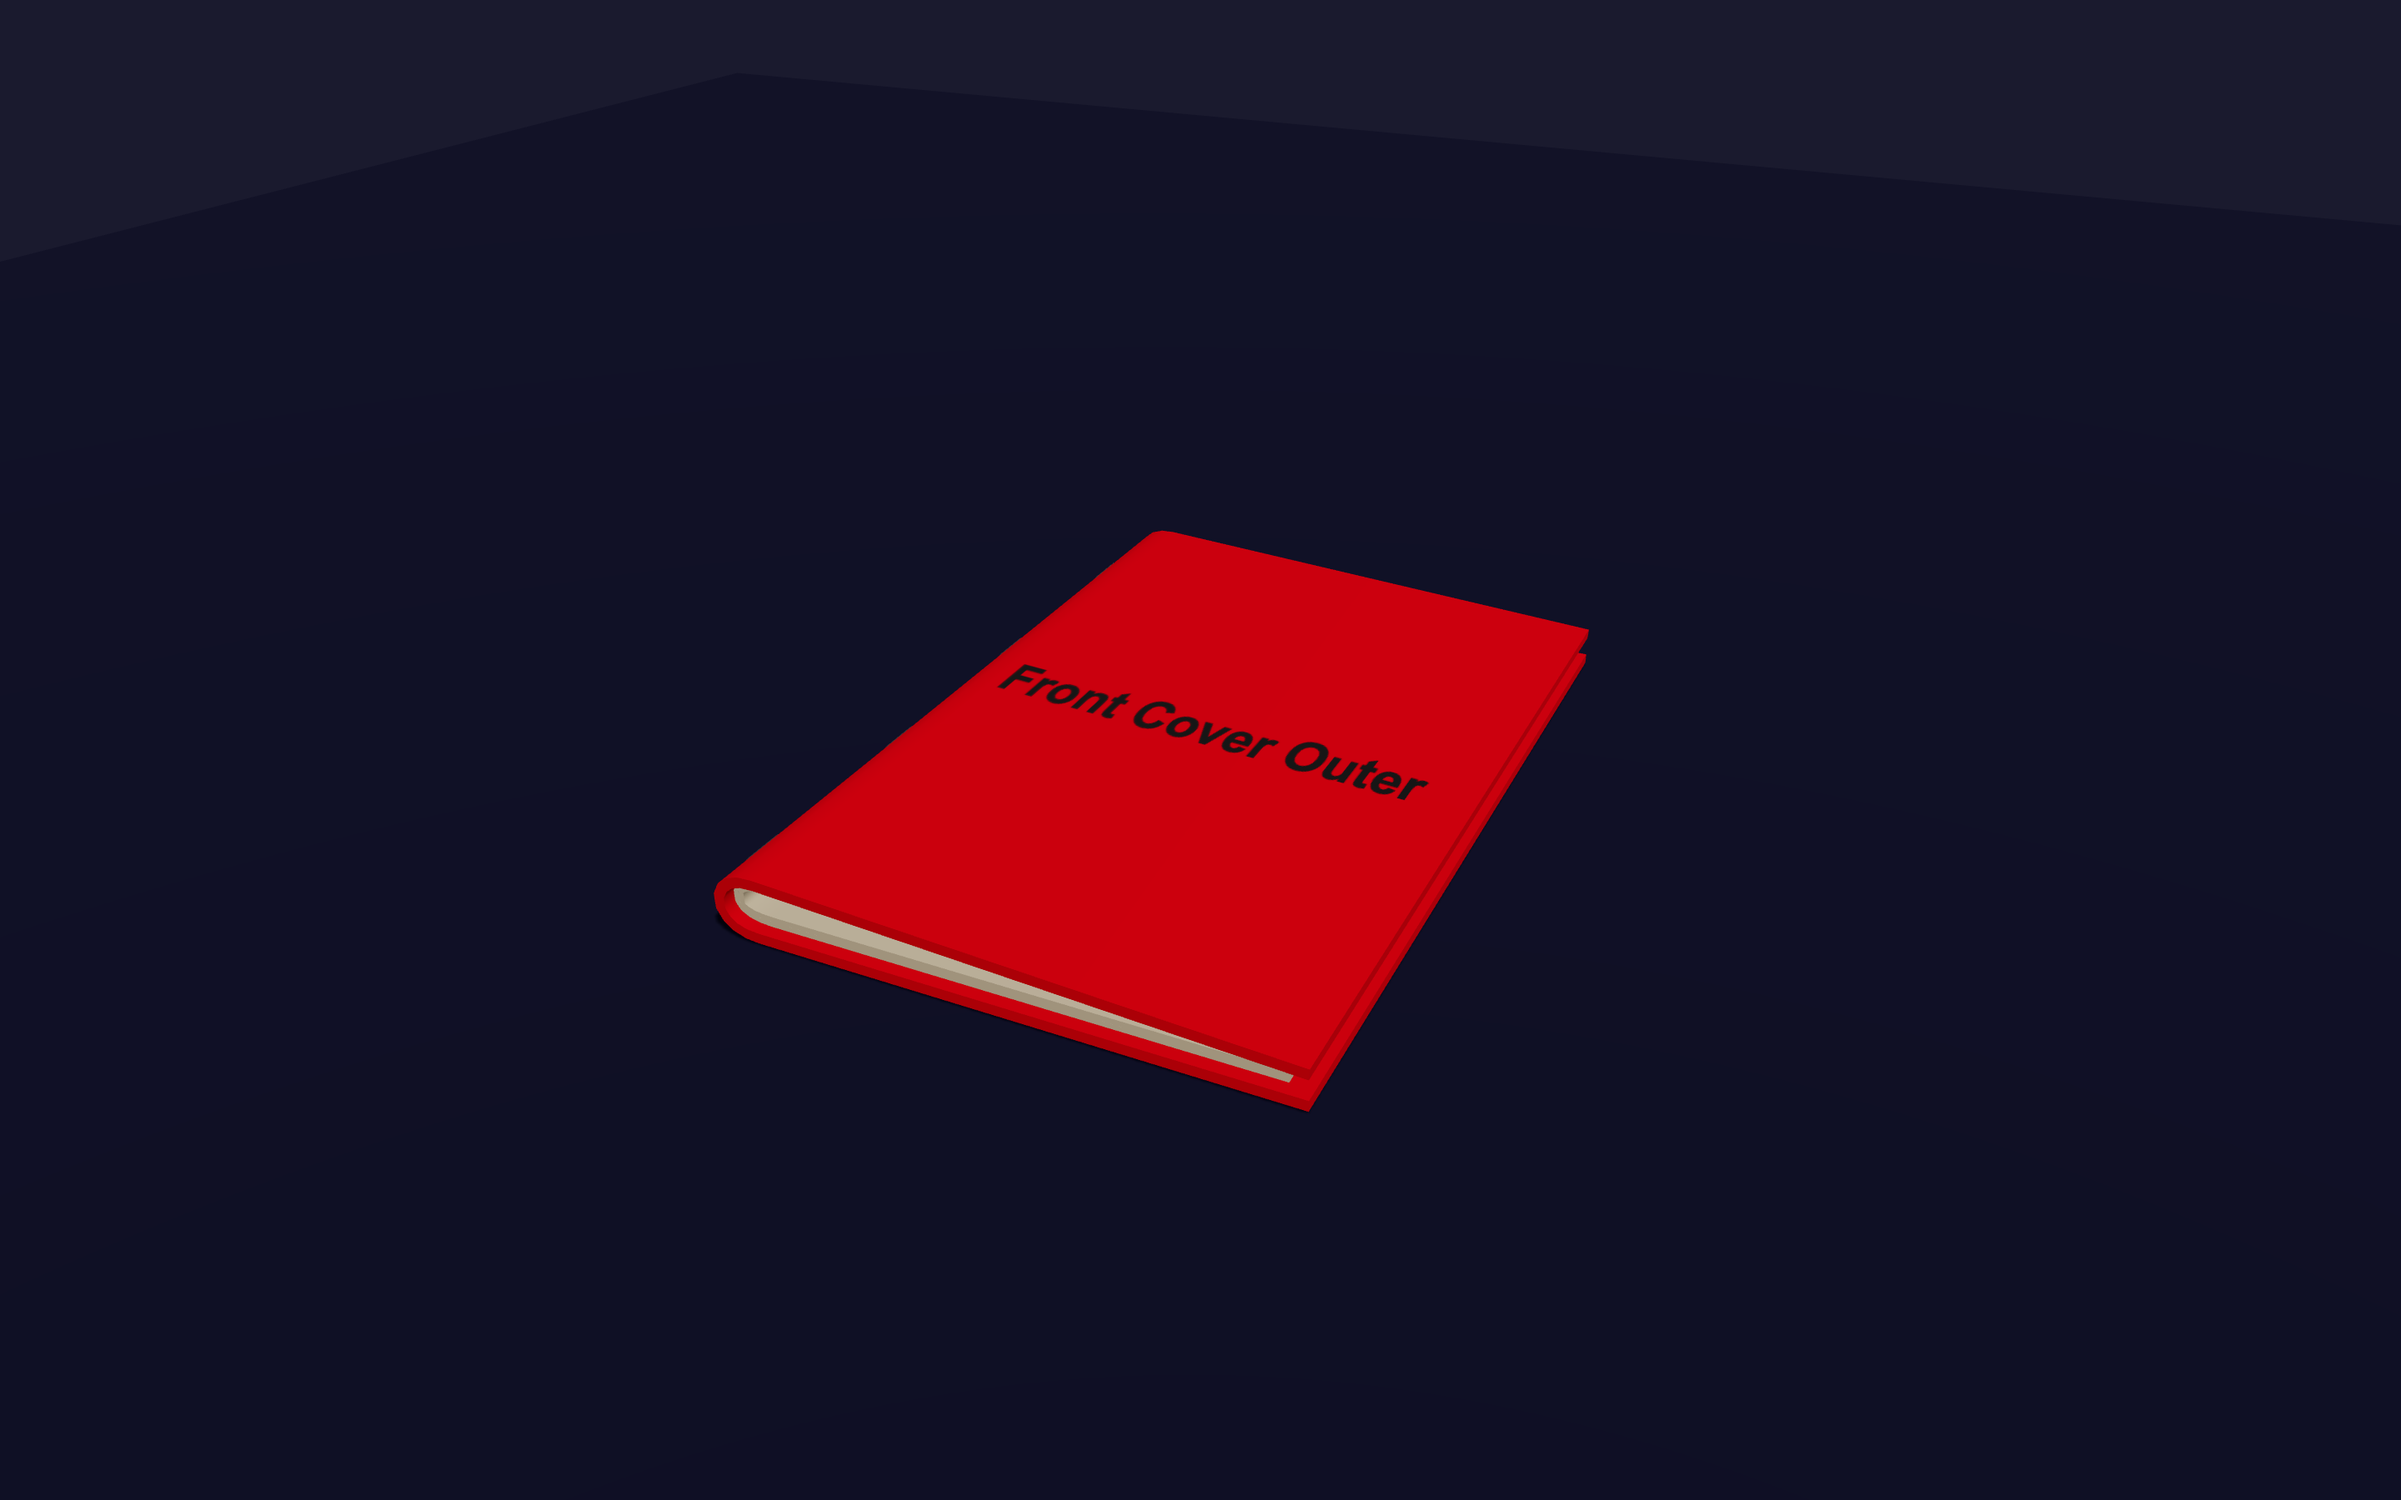
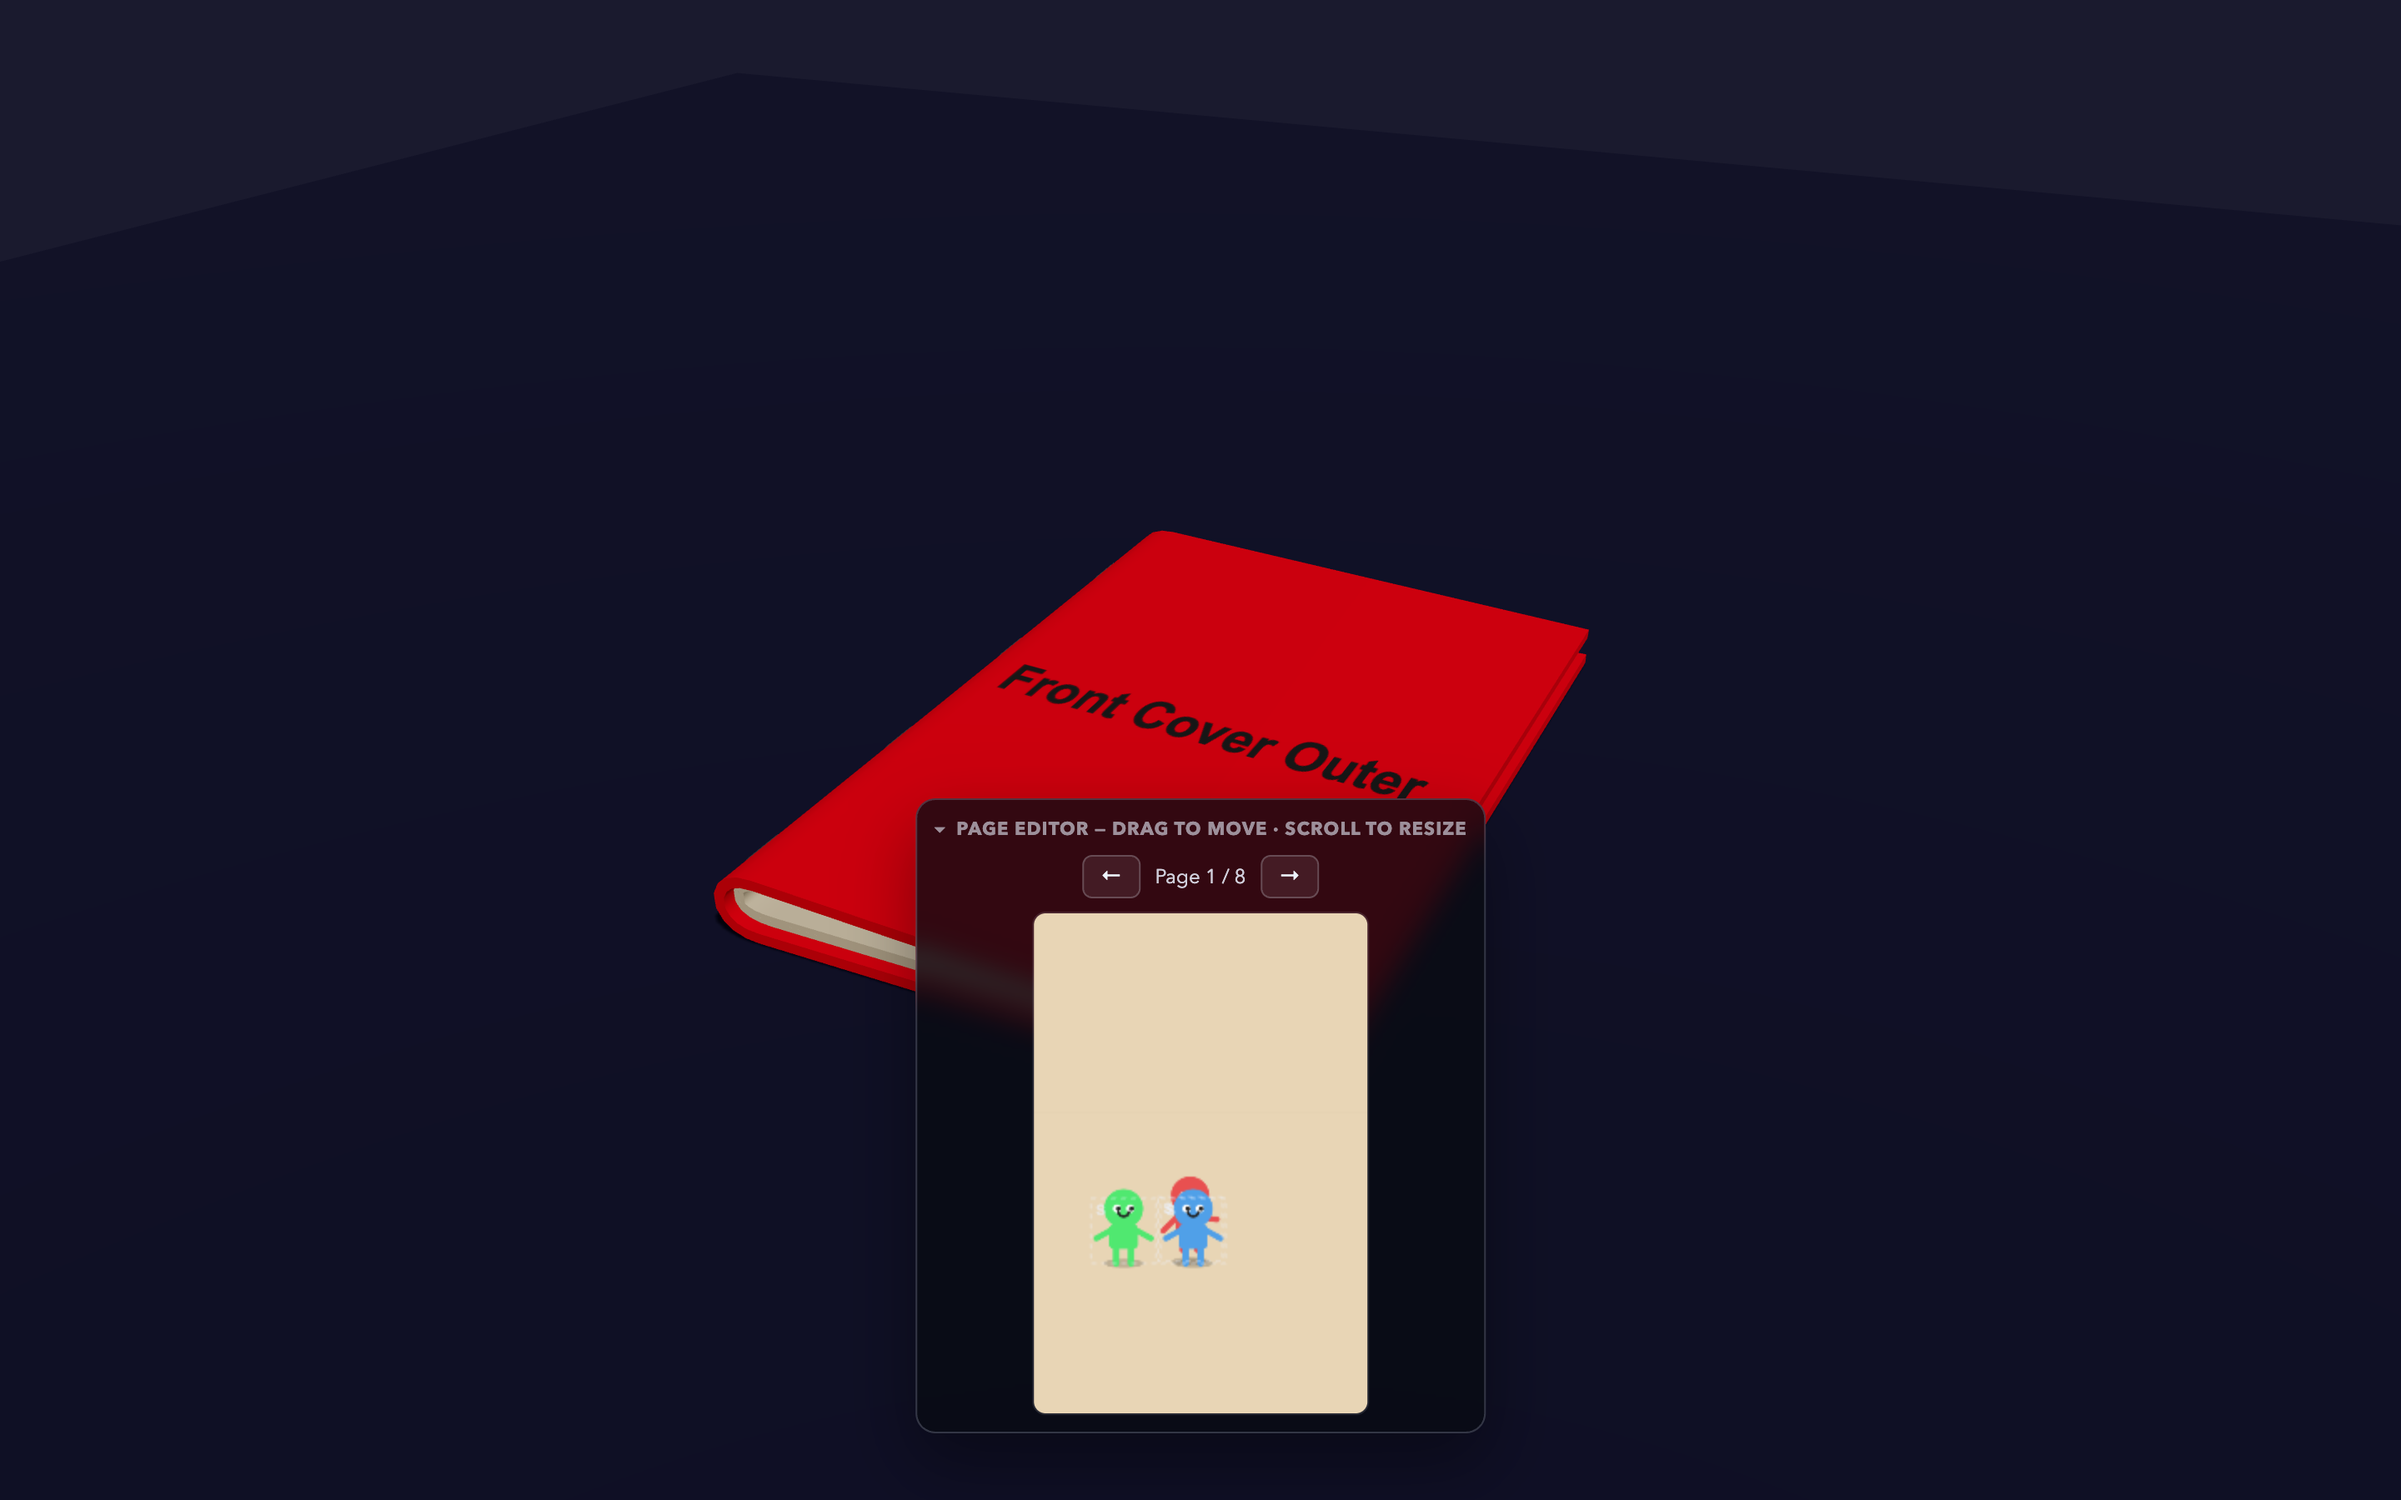
x

Changed region(s): [[0.375, 0.5289, 0.625, 0.9644]]

diff --git a/demo/src/components/PageEditor.tsx b/demo/src/components/PageEditor.tsx
@@ -1,0 +1,281 @@
+/**
+ * PageEditor — WYSIWYG 2D editor for sprites and elements (React version).
+ *
+ * Shows the current page's SpriteScene canvas in a floating panel.
+ *   - Drag    → move character (x + y / depth simultaneously)
+ *   - Scroll  → resize (intrinsicSize)
+ */
+
+import { useRef, useEffect, useCallback, useState } from 'react';
+import { Sprite, renderedSize } from '@objectifthunes/react-three-book-theatre';
+import type { Positionable, SpriteScene } from '@objectifthunes/react-three-book-theatre';
+
+const DISPLAY_MAX = 300;
+
+interface PageEditorProps {
+  currentPage: number;
+  pageCount: number;
+  spriteScenes: React.MutableRefObject<SpriteScene[]>;
+  onPageChange: (page: number) => void;
+}
+
+export default function PageEditor({ currentPage, pageCount, spriteScenes, onPageChange }: PageEditorProps) {
+  const canvasRef = useRef<HTMLCanvasElement>(null);
+  const rafRef = useRef<number>(0);
+  const draggingRef = useRef<Positionable | null>(null);
+  const hoveredRef = useRef<Positionable | null>(null);
+  const pointerOriginRef = useRef({ x: 0, y: 0 });
+  const itemOriginRef = useRef({ x: 0, y: 0 });
+  const [collapsed, setCollapsed] = useState(false);
+
+  const getScene = useCallback(() => spriteScenes.current[currentPage] ?? null, [spriteScenes, currentPage]);
+
+  const getDisplayMetrics = useCallback(() => {
+    const ss = getScene();
+    const cw = ss?.canvas.width ?? 512;
+    const ch = ss?.canvas.height ?? 512;
+    const scale = DISPLAY_MAX / Math.max(cw, ch);
+    return { cw, ch, dw: Math.round(cw * scale), dh: Math.round(ch * scale), scale };
+  }, [getScene]);
+
+  const allItems = useCallback((): Positionable[] => {
+    const ss = getScene();
+    if (!ss) return [];
+    return [...ss.sprites, ...ss.elements];
+  }, [getScene]);
+
+  const computeItemBox = useCallback((item: Positionable, ss: SpriteScene) => {
+    const sz = renderedSize(item.r, item.intrinsicSize, item.pageDistance);
+    const rawTop = item.y - sz;
+    const shift = rawTop < 0 ? -rawTop : 0;
+    return { sz, top: rawTop + shift, bottom: item.y + shift };
+  }, []);
+
+  const hitTest = useCallback((cx: number, cy: number): Positionable | null => {
+    const ss = getScene();
+    if (!ss) return null;
+    const sorted = allItems().slice().sort((a, b) => a.r - b.r);
+    for (const item of sorted) {
+      const { sz, top, bottom } = computeItemBox(item, ss);
+      const halfW = Math.max(sz / 2, 14);
+      if (cx >= item.x - halfW && cx <= item.x + halfW && cy >= top && cy <= bottom) {
+        return item;
+      }
+    }
+    return null;
+  }, [getScene, allItems, computeItemBox]);
+
+  // Render loop
+  useEffect(() => {
+    const canvas = canvasRef.current;
+    if (!canvas || collapsed) return;
+    const ctx = canvas.getContext('2d')!;
+
+    function render() {
+      const ss = getScene();
+      const { dw, dh, scale } = getDisplayMetrics();
+      canvas!.width = dw;
+      canvas!.height = dh;
+
+      ctx.clearRect(0, 0, dw, dh);
+      if (ss) {
+        ctx.drawImage(ss.canvas, 0, 0, dw, dh);
+      } else {
+        ctx.fillStyle = '#11131f';
+        ctx.fillRect(0, 0, dw, dh);
+      }
+
+      // Draw item overlays
+      const items = allItems();
+      const hovered = hoveredRef.current;
+      const dragging = draggingRef.current;
+
+      for (const item of items) {
+        if (!ss) continue;
+        const { sz, top } = computeItemBox(item, ss);
+        const sx = item.x * scale;
+        const sw = sz * scale;
+        const sy = top * scale;
+        const active = item === hovered || item === dragging;
+        const isSprite = item instanceof Sprite;
+
+        ctx.save();
+        ctx.strokeStyle = active
+          ? (isSprite ? '#89d8b0' : '#d8b089')
+          : 'rgba(236,242,255,0.45)';
+        ctx.lineWidth = active ? 2 : 1;
+        if (!active) ctx.setLineDash([3, 3]);
+        ctx.strokeRect(sx - sw / 2, sy, sw, sw);
+        ctx.restore();
+
+        const fs = Math.max(7, Math.min(11, sw * 0.22));
+        ctx.save();
+        ctx.font = `bold ${fs}px sans-serif`;
+        ctx.textAlign = 'left';
+        ctx.textBaseline = 'top';
+        ctx.fillStyle = active
+          ? (isSprite ? '#89d8b0' : '#d8b089')
+          : 'rgba(236,242,255,0.6)';
+        ctx.fillText(isSprite ? 'S' : 'E', sx - sw / 2 + 3, sy + 3);
+        ctx.restore();
+      }
+
+      rafRef.current = requestAnimationFrame(render);
+    }
+
+    rafRef.current = requestAnimationFrame(render);
+    return () => cancelAnimationFrame(rafRef.current);
+  }, [currentPage, collapsed, getScene, getDisplayMetrics, allItems, computeItemBox]);
+
+  const displayToCanvas = useCallback((clientX: number, clientY: number) => {
+    const canvas = canvasRef.current;
+    if (!canvas) return { x: 0, y: 0 };
+    const rect = canvas.getBoundingClientRect();
+    const { scale } = getDisplayMetrics();
+    return {
+      x: (clientX - rect.left) / scale,
+      y: (clientY - rect.top) / scale,
+    };
+  }, [getDisplayMetrics]);
+
+  const onPointerDown = useCallback((e: React.PointerEvent) => {
+    const cv = displayToCanvas(e.clientX, e.clientY);
+    const hit = hitTest(cv.x, cv.y);
+    if (!hit) return;
+    draggingRef.current = hit;
+    pointerOriginRef.current = cv;
+    itemOriginRef.current = { x: hit.x, y: hit.y };
+    (e.target as HTMLElement).setPointerCapture(e.pointerId);
+    e.stopPropagation();
+  }, [displayToCanvas, hitTest]);
+
+  const onPointerMove = useCallback((e: React.PointerEvent) => {
+    const cv = displayToCanvas(e.clientX, e.clientY);
+    const dragging = draggingRef.current;
+    if (dragging) {
+      const ss = getScene();
+      const { cw, ch } = getDisplayMetrics();
+      const horizonY = ss ? ss.horizonFraction * ch : ch * 0.42;
+
+      dragging.x = Math.max(0, Math.min(cw, itemOriginRef.current.x + (cv.x - pointerOriginRef.current.x)));
+      const newY = itemOriginRef.current.y + (cv.y - pointerOriginRef.current.y);
+      if (dragging.placement === 'ground') {
+        dragging.y = Math.max(horizonY + 1, Math.min(ch, newY));
+      } else {
+        dragging.y = Math.max(0, Math.min(horizonY - 1, newY));
+      }
+    } else {
+      hoveredRef.current = hitTest(cv.x, cv.y);
+    }
+  }, [displayToCanvas, hitTest, getScene, getDisplayMetrics]);
+
+  const onPointerUp = useCallback(() => {
+    draggingRef.current = null;
+  }, []);
+
+  const onWheel = useCallback((e: React.WheelEvent) => {
+    e.stopPropagation();
+    const cv = displayToCanvas(e.clientX, e.clientY);
+    const hit = hitTest(cv.x, cv.y) ?? hoveredRef.current;
+    if (!hit) return;
+    hit.intrinsicSize = Math.max(1, Math.min(200, hit.intrinsicSize + (e.deltaY > 0 ? -5 : 5)));
+  }, [displayToCanvas, hitTest]);
+
+  return (
+    <div
+      style={{
+        position: 'fixed',
+        bottom: 40,
+        left: '50%',
+        transform: 'translateX(-50%)',
+        padding: 10,
+        borderRadius: 12,
+        color: '#ecf2ff',
+        fontFamily: "'Avenir Next', 'Trebuchet MS', 'Segoe UI', sans-serif",
+        fontSize: 12,
+        background: 'rgba(8, 10, 18, 0.78)',
+        border: '1px solid rgba(214, 225, 255, 0.2)',
+        boxShadow: '0 18px 42px rgba(0, 0, 0, 0.38)',
+        backdropFilter: 'blur(8px)',
+        userSelect: 'none',
+        zIndex: 100,
+        display: 'flex',
+        flexDirection: 'column',
+        alignItems: 'center',
+      }}
+      onPointerDown={(e) => e.stopPropagation()}
+    >
+      {/* Title + collapse toggle */}
+      <div
+        style={{
+          fontSize: 11,
+          fontWeight: 700,
+          letterSpacing: '0.05em',
+          textTransform: 'uppercase',
+          color: 'rgba(236,242,255,0.58)',
+          marginBottom: 8,
+          textAlign: 'center',
+          cursor: 'pointer',
+          display: 'flex',
+          alignItems: 'center',
+          gap: 6,
+        }}
+        onClick={() => setCollapsed((c) => !c)}
+      >
+        <span>{collapsed ? '\u25B8' : '\u25BE'}</span>
+        Page Editor — drag to move · scroll to resize
+      </div>
+
+      {/* Page navigation */}
+      {!collapsed && (
+        <div style={{ display: 'flex', gap: 6, alignItems: 'center', marginBottom: 8 }}>
+          <button
+            style={NAV_BTN}
+            onClick={() => onPageChange(Math.max(0, currentPage - 1))}
+            disabled={currentPage <= 0}
+          >
+            ←
+          </button>
+          <span style={{ fontSize: 12, color: 'rgba(236,242,255,0.85)', minWidth: 60, textAlign: 'center' }}>
+            Page {currentPage + 1} / {pageCount}
+          </span>
+          <button
+            style={NAV_BTN}
+            onClick={() => onPageChange(Math.min(pageCount - 1, currentPage + 1))}
+            disabled={currentPage >= pageCount - 1}
+          >
+            →
+          </button>
+        </div>
+      )}
+
+      {/* Canvas */}
+      {!collapsed && (
+        <canvas
+          ref={canvasRef}
+          style={{
+            display: 'block',
+            borderRadius: 8,
+            cursor: draggingRef.current ? 'grabbing' : 'crosshair',
+            border: '1px solid rgba(236,242,255,0.12)',
+          }}
+          onPointerDown={onPointerDown}
+          onPointerMove={onPointerMove}
+          onPointerUp={onPointerUp}
+          onWheel={onWheel}
+        />
+      )}
+    </div>
+  );
+}
+
+const NAV_BTN: React.CSSProperties = {
+  padding: '3px 10px',
+  borderRadius: 6,
+  border: '1px solid rgba(236,242,255,0.22)',
+  background: 'rgba(255,255,255,0.08)',
+  color: '#eef4ff',
+  fontFamily: 'inherit',
+  fontSize: 13,
+  cursor: 'pointer',
+};

diff --git a/demo/src/App.tsx b/demo/src/App.tsx
@@ -13,6 +13,7 @@ import {
 import BookScene from './components/BookScene';
 import LeftPanel from './components/LeftPanel';
 import RightPanel from './components/RightPanel';
+import PageEditor from './components/PageEditor';
 
 const MAX_PAGES = 20;
 
@@ -26,6 +27,7 @@ export default function App() {
     Array.from({ length: MAX_PAGES }, () => createDefaultPageConfig()),
   );
   const [status, setStatus] = useState('Building...');
+  const [editorPage, setEditorPage] = useState(0);
   const bookRef = useRef<ThreeBook | null>(null);
   const spriteScenes = useRef<SpriteScene[]>([]);
 
@@ -97,6 +99,12 @@ export default function App() {
         onCoverSlotChange={onCoverSlotChange}
         onPageConfigChange={onPageConfigChange}
         onRebuild={rebuild}
+      />
+      <PageEditor
+        currentPage={editorPage}
+        pageCount={params.pageCount}
+        spriteScenes={spriteScenes}
+        onPageChange={setEditorPage}
       />
     </>
   );

diff --git a/demo/src/components/BookScene.tsx b/demo/src/components/BookScene.tsx
@@ -54,12 +54,16 @@ export default function BookScene({
     // Dispose old scenes
     for (const s of spriteScenes.current) s.dispose();
 
+    const PAGE_BASE = 512;
+    const pageCanvasW = PAGE_BASE;
+    const pageCanvasH = Math.round(PAGE_BASE * params.pageHeight / params.pageWidth);
+
     const newScenes: SpriteScene[] = [];
     for (let i = 0; i < params.pageCount; i++) {
       const cfg = pageConfigs[i];
       const scene = new SpriteScene({
-        width: 512,
-        height: 512,
+        width: pageCanvasW,
+        height: pageCanvasH,
         background: cfg.background,
         horizonFraction: cfg.horizonFraction,
         pageDistance: cfg.pageDistance,
